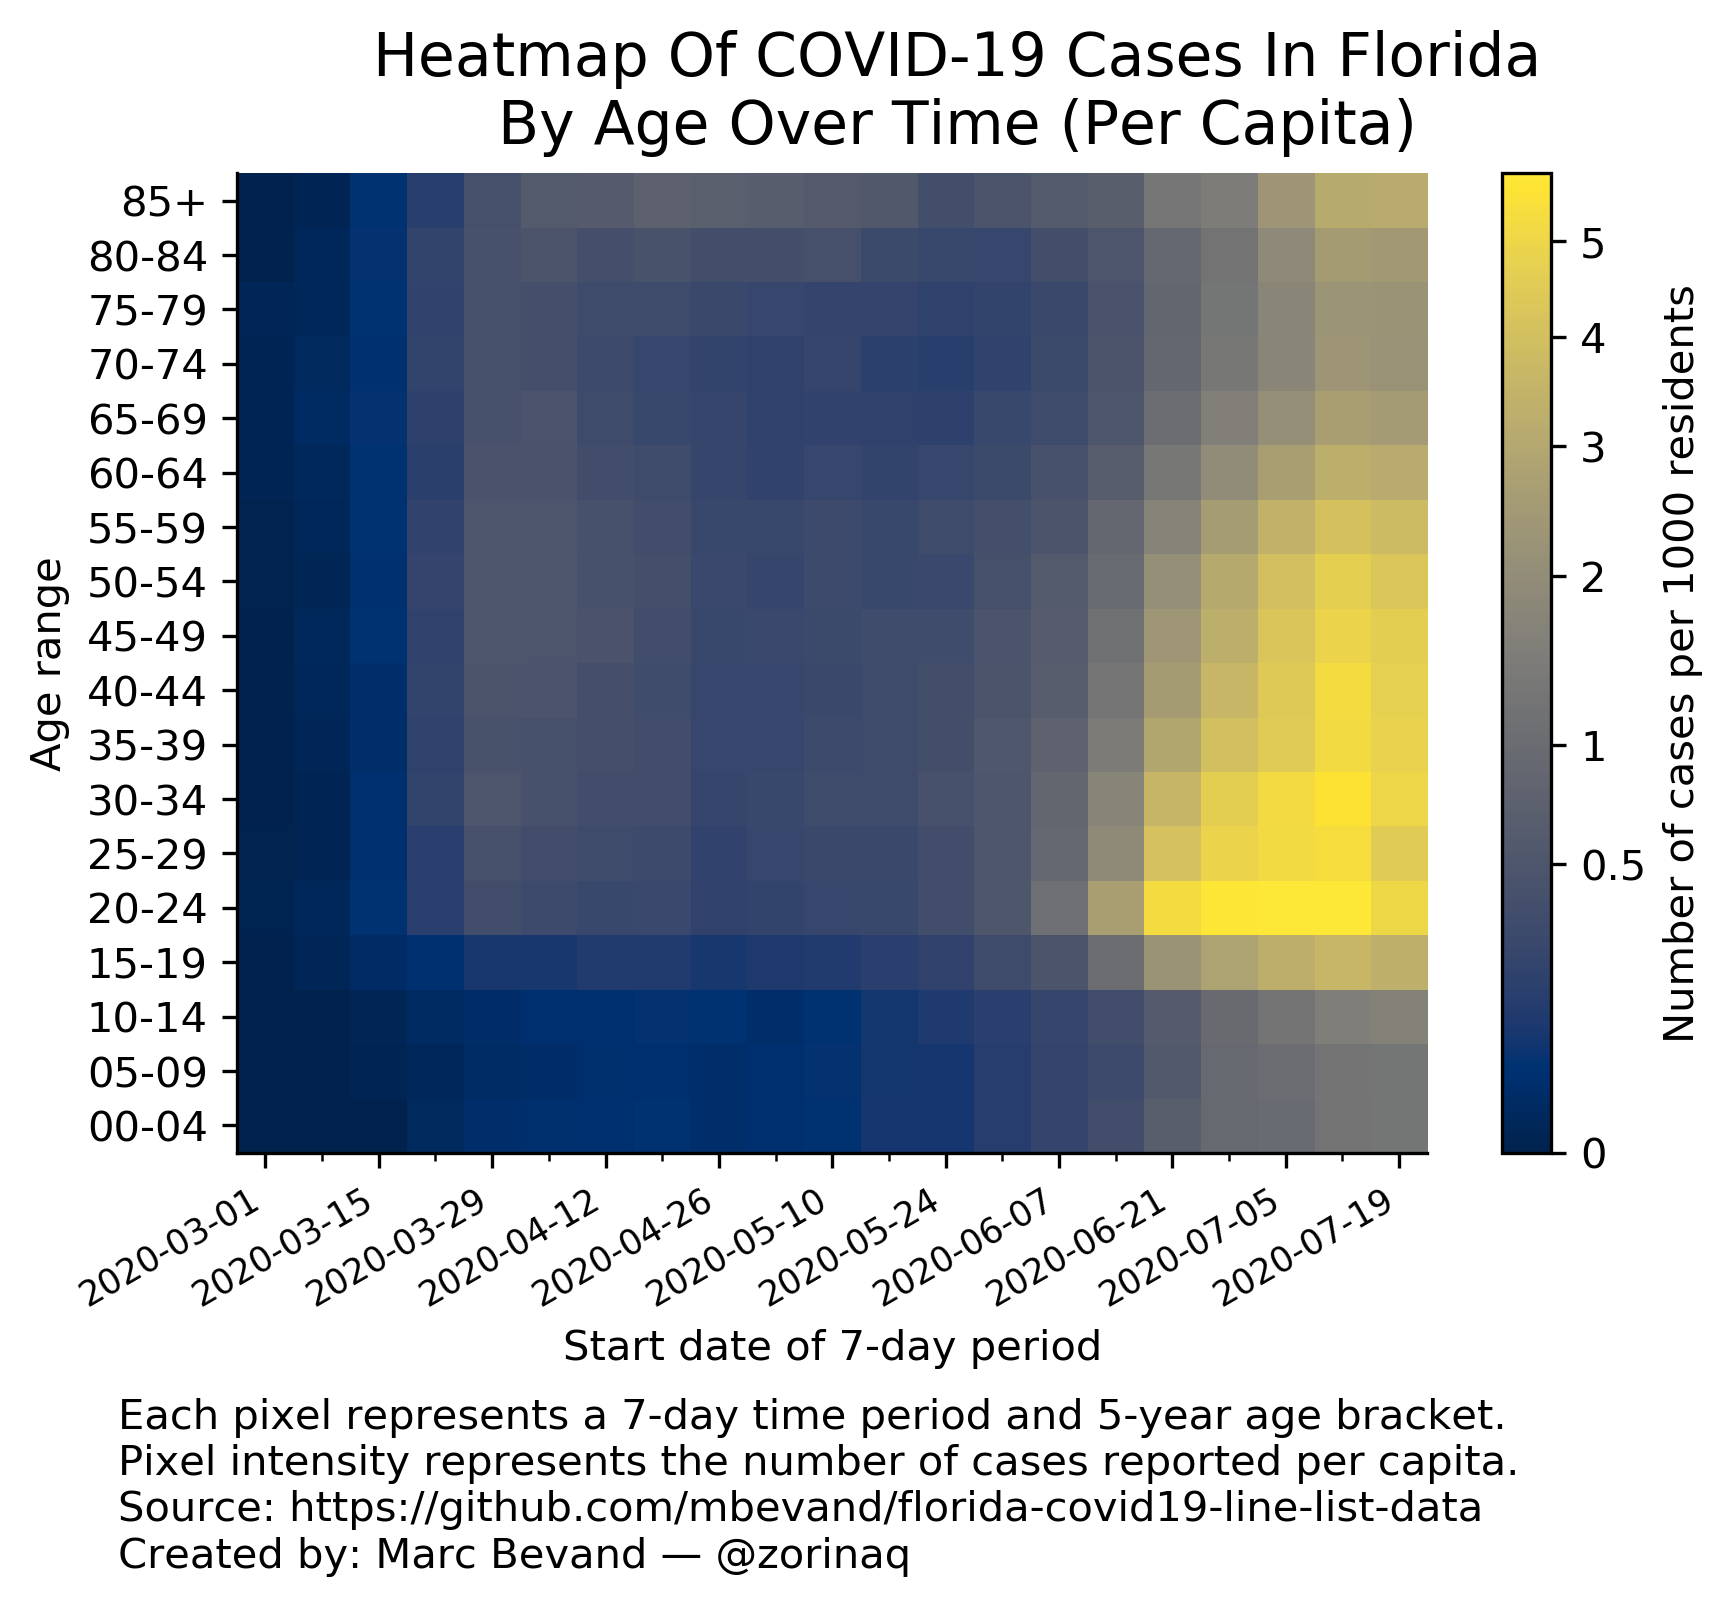
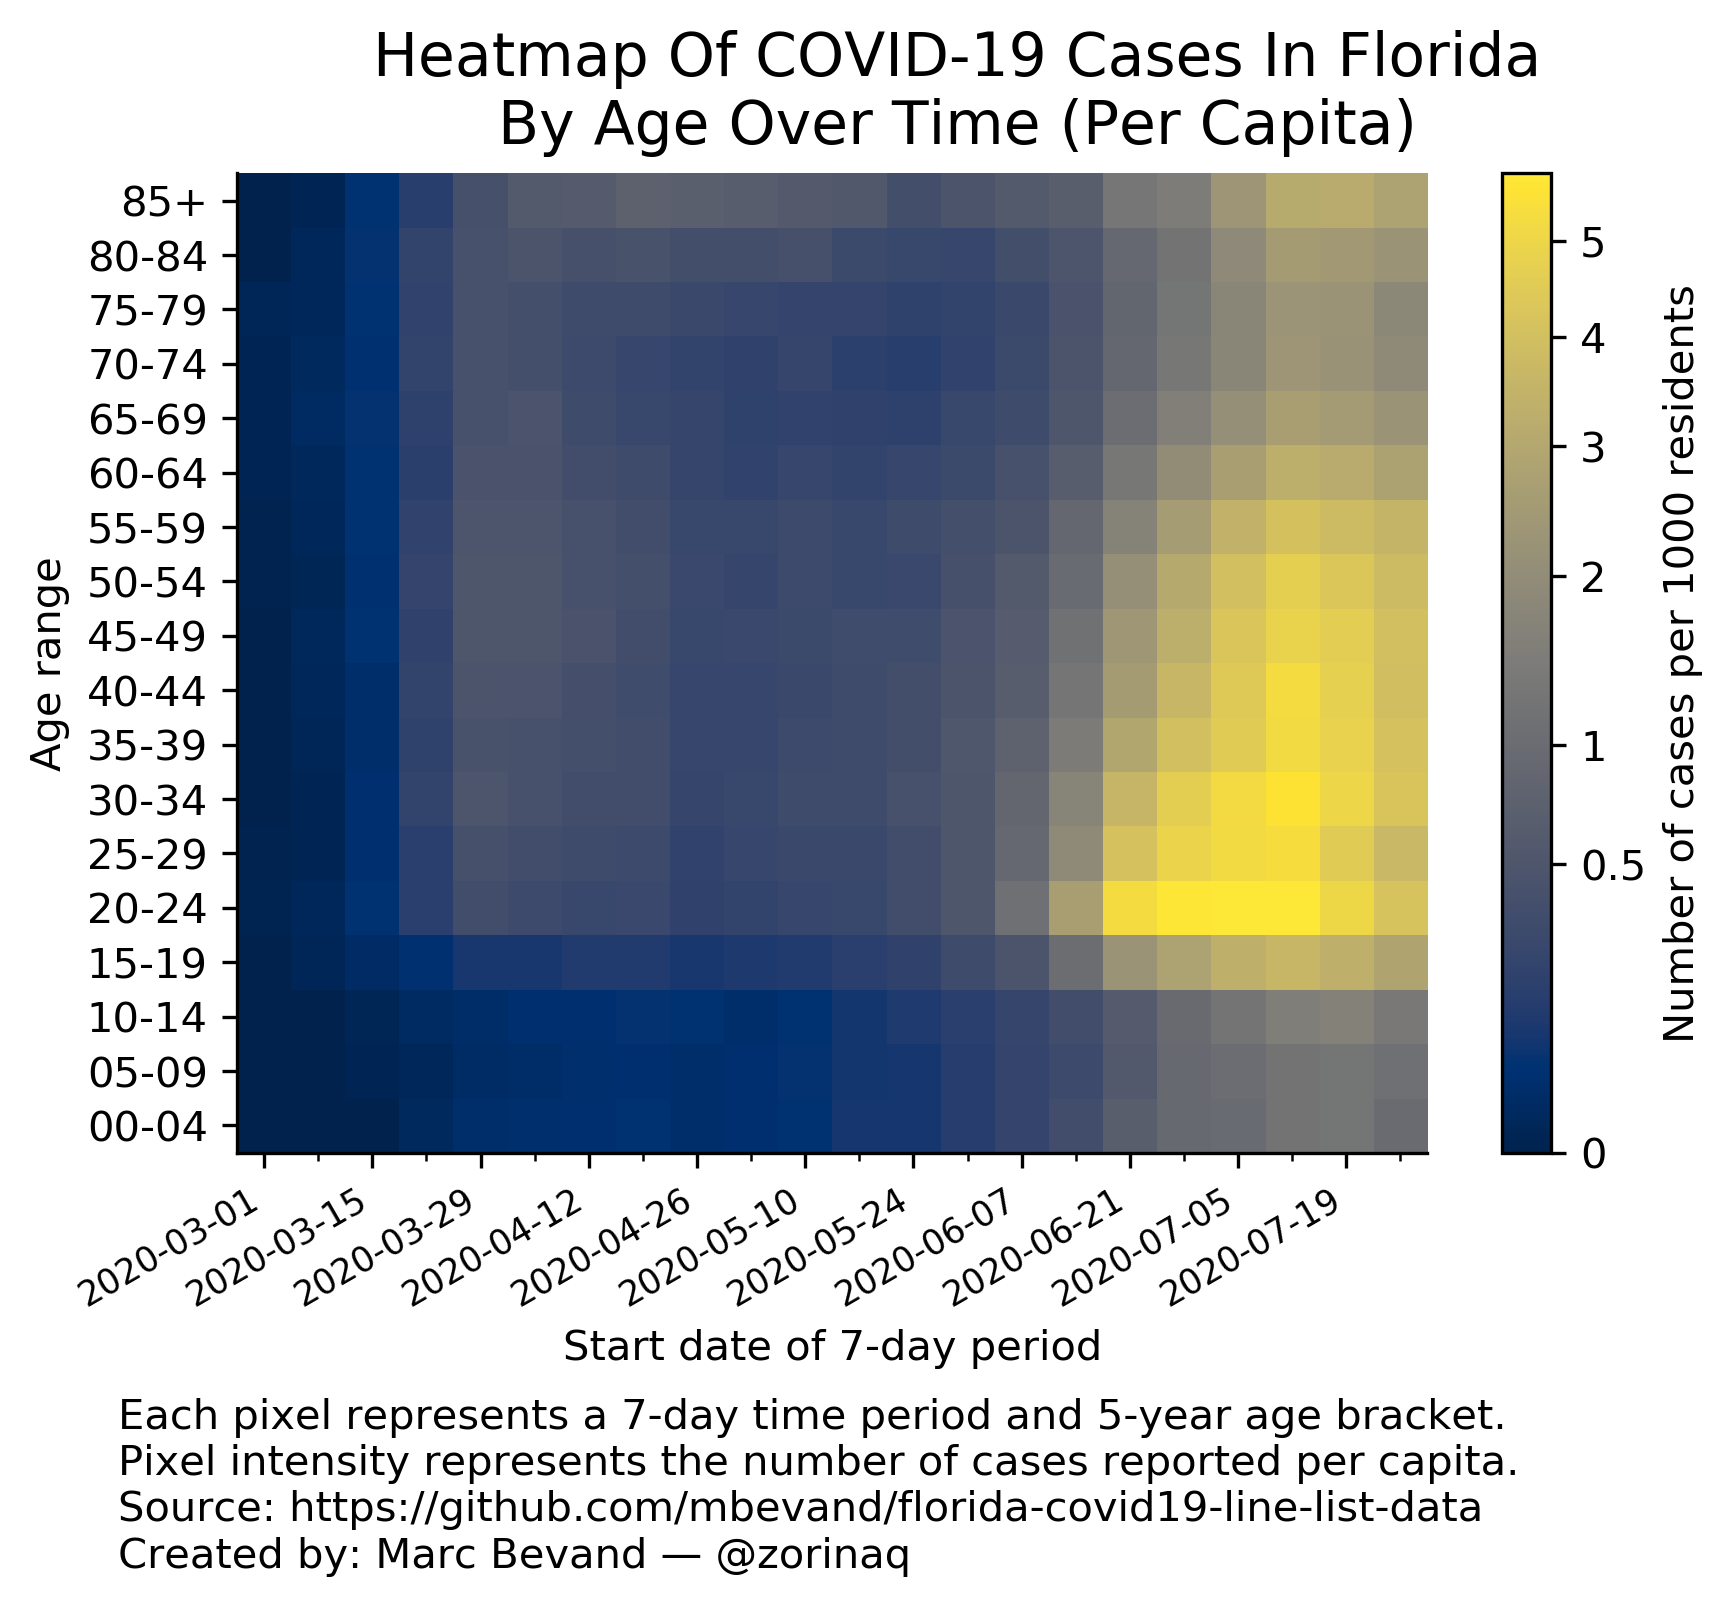
update heatmaps

diff --git a/README.md b/README.md
@@ -1,6 +1,6 @@
 # Forecasting deaths and analyzing age trends of COVID-19 cases in Florida
 
-*Updated: 30 July 2020*
+*Updated: 02 August 2020*
 
 Author: Marc Bevand
 
@@ -329,31 +329,32 @@ It creates various heatmaps of cases by age over time:
 
 ```
 $ ./heatmap.py
-Opening data_fdoh/2020-07-26-08-01-29.csv
+Opening data_fdoh/2020-08-02-07-44-56.csv
 Number of COVID-19 cases per 7-day time period in Florida by age bracket over time:
 period_start, 00-04, 05-09, 10-14, 15-19, 20-24, 25-29, 30-34, 35-39, 40-44, 45-49, 50-54, 55-59, 60-64, 65-69, 70-74, 75-79, 80-84, 85+, median_age
   2020-03-01,     0,     0,     0,     0,     1,     1,     0,     0,     0,     0,     1,     1,     2,     2,     2,     3,     0,     0,  65.0
   2020-03-08,     0,     0,     0,     4,     7,     3,     2,     5,     6,     8,     4,     8,     9,    17,    10,     4,     3,     1,  59.0
   2020-03-15,     0,     2,     3,    21,    57,    48,    45,    36,    34,    63,    54,    64,    64,    67,    40,    41,    30,    26,  53.0
-  2020-03-22,    10,     5,    17,    49,   204,   222,   284,   254,   272,   273,   315,   297,   235,   235,   237,   176,   120,    84,  50.0
-  2020-03-29,    32,    21,    28,   109,   428,   577,   652,   583,   604,   701,   716,   705,   630,   550,   470,   345,   234,   228,  50.0
+  2020-03-22,    10,     5,    17,    49,   204,   222,   284,   254,   272,   273,   315,   298,   235,   235,   237,   176,   120,    84,  50.0
+  2020-03-29,    32,    21,    28,   109,   428,   577,   652,   583,   604,   701,   716,   704,   631,   550,   470,   345,   234,   228,  50.0
   2020-04-05,    34,    25,    42,   108,   383,   481,   568,   541,   577,   669,   699,   706,   636,   593,   419,   314,   262,   325,  51.0
   2020-04-12,    37,    35,    41,   142,   330,   437,   465,   495,   490,   608,   595,   614,   493,   404,   335,   270,   220,   344,  50.0
   2020-04-19,    49,    39,    67,   149,   341,   428,   459,   467,   416,   462,   518,   499,   441,   332,   279,   260,   246,   424,  50.0
   2020-04-26,    29,    29,    55,   111,   251,   296,   308,   339,   305,   348,   375,   382,   323,   301,   240,   237,   205,   383,  52.0
   2020-05-03,    37,    38,    35,   132,   276,   364,   355,   321,   319,   364,   328,   373,   297,   245,   225,   212,   202,   363,  50.0
-  2020-05-10,    51,    58,    60,   151,   313,   401,   435,   399,   354,   399,   424,   432,   352,   270,   261,   191,   225,   334,  49.0
+  2020-05-10,    51,    58,    60,   151,   313,   401,   435,   399,   354,   399,   424,   432,   352,   270,   261,   191,   225,   335,  49.0
   2020-05-17,    94,    88,    98,   193,   329,   392,   423,   417,   392,   443,   357,   379,   306,   257,   197,   189,   161,   312,  46.0
-  2020-05-24,    91,    94,   136,   242,   425,   481,   545,   490,   469,   447,   375,   445,   336,   237,   165,   159,   145,   207,  42.0
+  2020-05-24,    91,    94,   136,   242,   425,   481,   545,   490,   468,   447,   375,   445,   336,   237,   165,   159,   145,   207,  42.0
   2020-05-31,   162,   161,   201,   401,   624,   707,   693,   707,   594,   618,   560,   540,   413,   333,   231,   182,   138,   270,  40.0
-  2020-06-07,   257,   256,   290,   592,  1406,  1291,  1159,  1022,   814,   845,   808,   691,   577,   407,   322,   235,   206,   328,  37.0
-  2020-06-14,   392,   342,   435,  1276,  3359,  2755,  2320,  1940,  1608,  1557,  1365,  1281,   916,   651,   529,   378,   272,   378,  34.0
-  2020-06-21,   767,   645,   765,  2762,  6600,  5834,  4815,  3911,  3234,  3197,  2949,  2444,  1869,  1350,   991,   718,   501,   725,  34.0
-  2020-06-28,  1068,  1047,  1203,  3478,  7135,  6999,  6235,  5305,  4598,  4459,  4312,  3751,  2823,  2040,  1464,  1057,   680,   830,  36.0
-  2020-07-05,  1117,  1187,  1528,  4129,  7242,  7340,  6969,  5970,  5583,  5778,  5562,  5017,  3774,  2713,  1998,  1499,  1063,  1308,  39.0
-  2020-07-12,  1384,  1385,  1930,  4481,  7228,  7590,  7462,  6842,  6648,  6627,  6560,  5942,  4617,  3456,  2600,  1926,  1430,  1763,  41.0
-  2020-07-19,  1432,  1416,  2030,  4147,  6341,  6435,  6729,  6397,  6009,  6294,  6083,  5556,  4446,  3277,  2463,  1899,  1376,  1800,  41.0
-(Last period's data may be incomplete. Age unknown for 778 out of 423855 cases.)
+  2020-06-07,   257,   256,   290,   592,  1405,  1291,  1158,  1022,   814,   845,   808,   691,   577,   406,   322,   236,   206,   328,  37.0
+  2020-06-14,   392,   342,   435,  1275,  3359,  2755,  2319,  1939,  1607,  1556,  1365,  1280,   916,   651,   529,   378,   272,   377,  34.0
+  2020-06-21,   767,   645,   763,  2761,  6599,  5832,  4813,  3910,  3231,  3198,  2948,  2441,  1870,  1350,   991,   718,   501,   725,  34.0
+  2020-06-28,  1071,  1047,  1202,  3476,  7131,  6998,  6233,  5303,  4597,  4456,  4310,  3751,  2822,  2036,  1463,  1056,   679,   830,  36.0
+  2020-07-05,  1112,  1188,  1527,  4128,  7238,  7330,  6972,  5970,  5580,  5776,  5558,  5013,  3770,  2708,  1999,  1497,  1063,  1308,  39.0
+  2020-07-12,  1384,  1381,  1929,  4481,  7222,  7579,  7449,  6836,  6645,  6617,  6551,  5938,  4610,  3452,  2598,  1924,  1428,  1758,  41.0
+  2020-07-19,  1426,  1407,  2028,  4148,  6322,  6432,  6716,  6391,  5994,  6278,  6073,  5541,  4438,  3273,  2459,  1893,  1369,  1792,  41.0
+  2020-07-26,  1131,  1254,  1699,  3543,  5245,  5288,  5656,  5480,  5008,  5417,  5315,  5123,  3878,  2927,  2153,  1567,  1253,  1578,  42.0
+(Last period's data may be incomplete. Age unknown for 864 out of 487132 cases.)
 ```
 
 By default the size of each pixel, or *bucket*, is 5-year age brackets and 7-day
